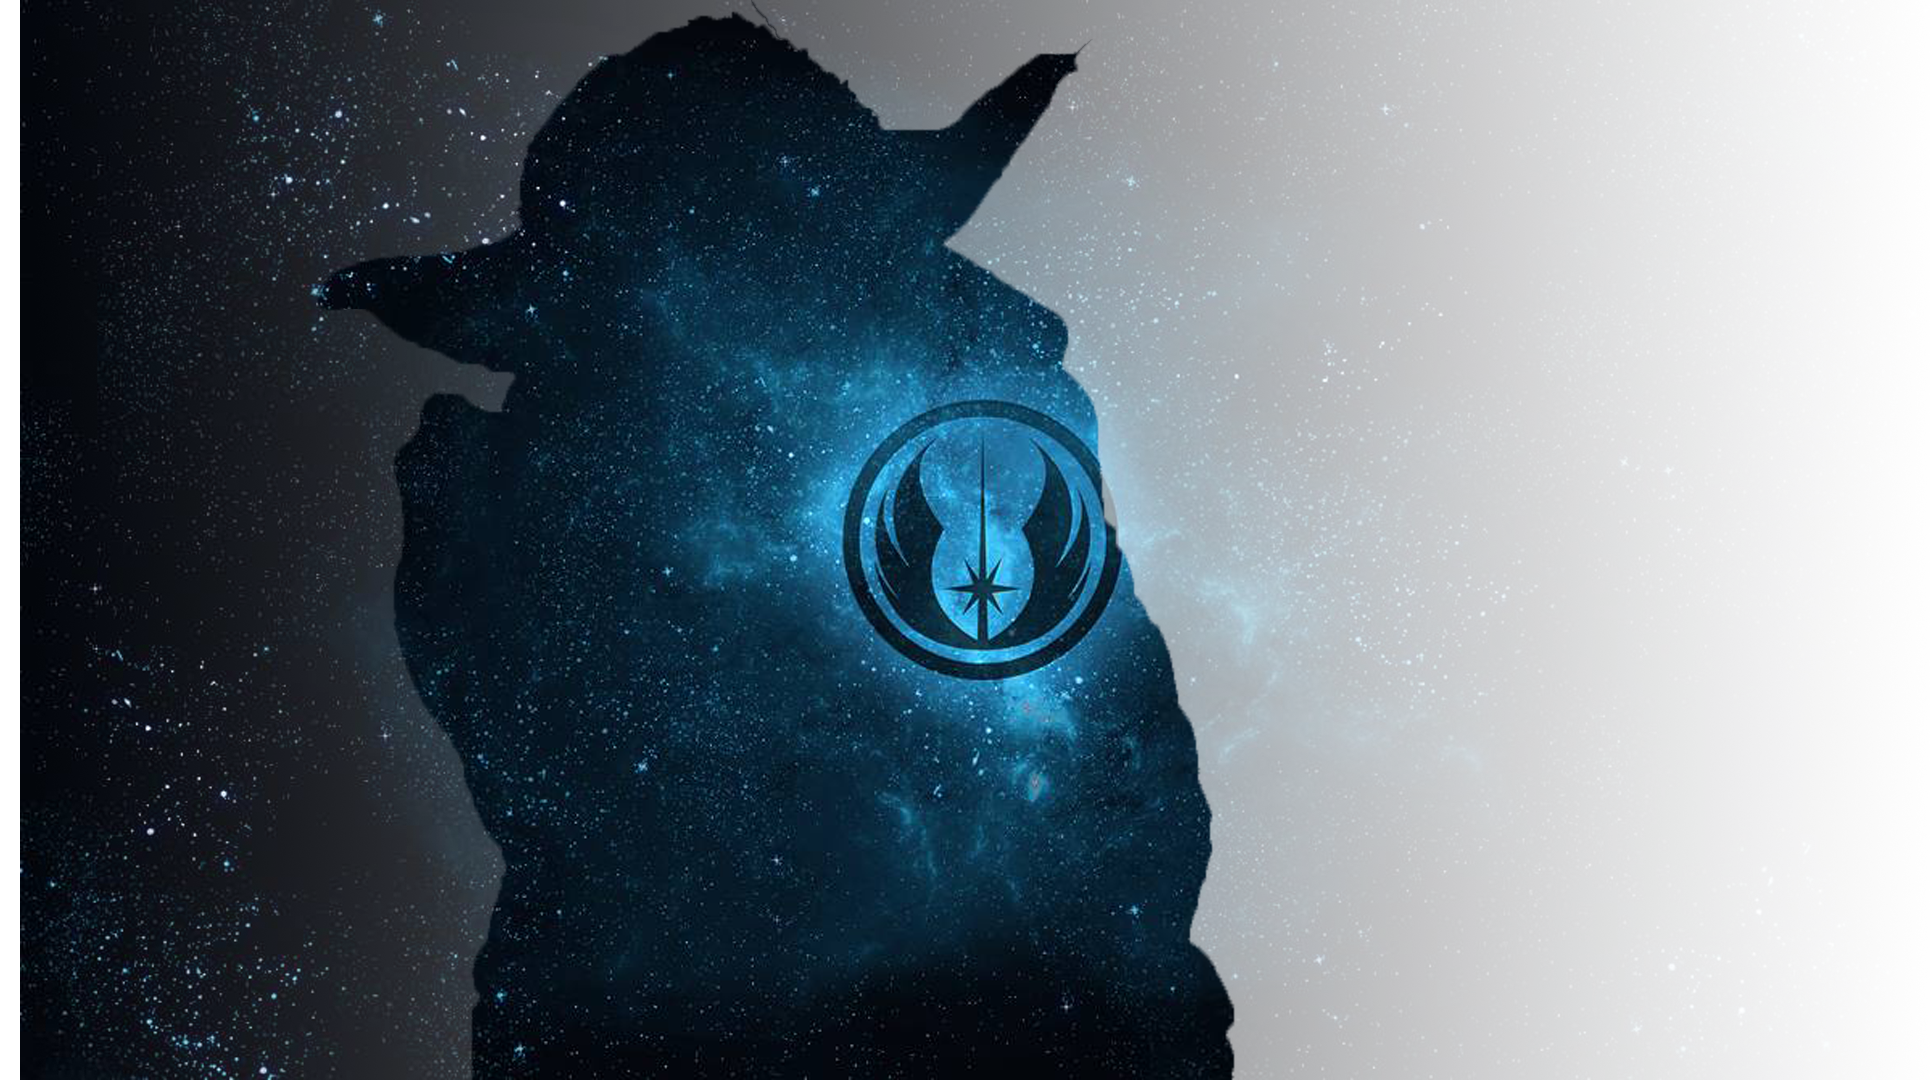
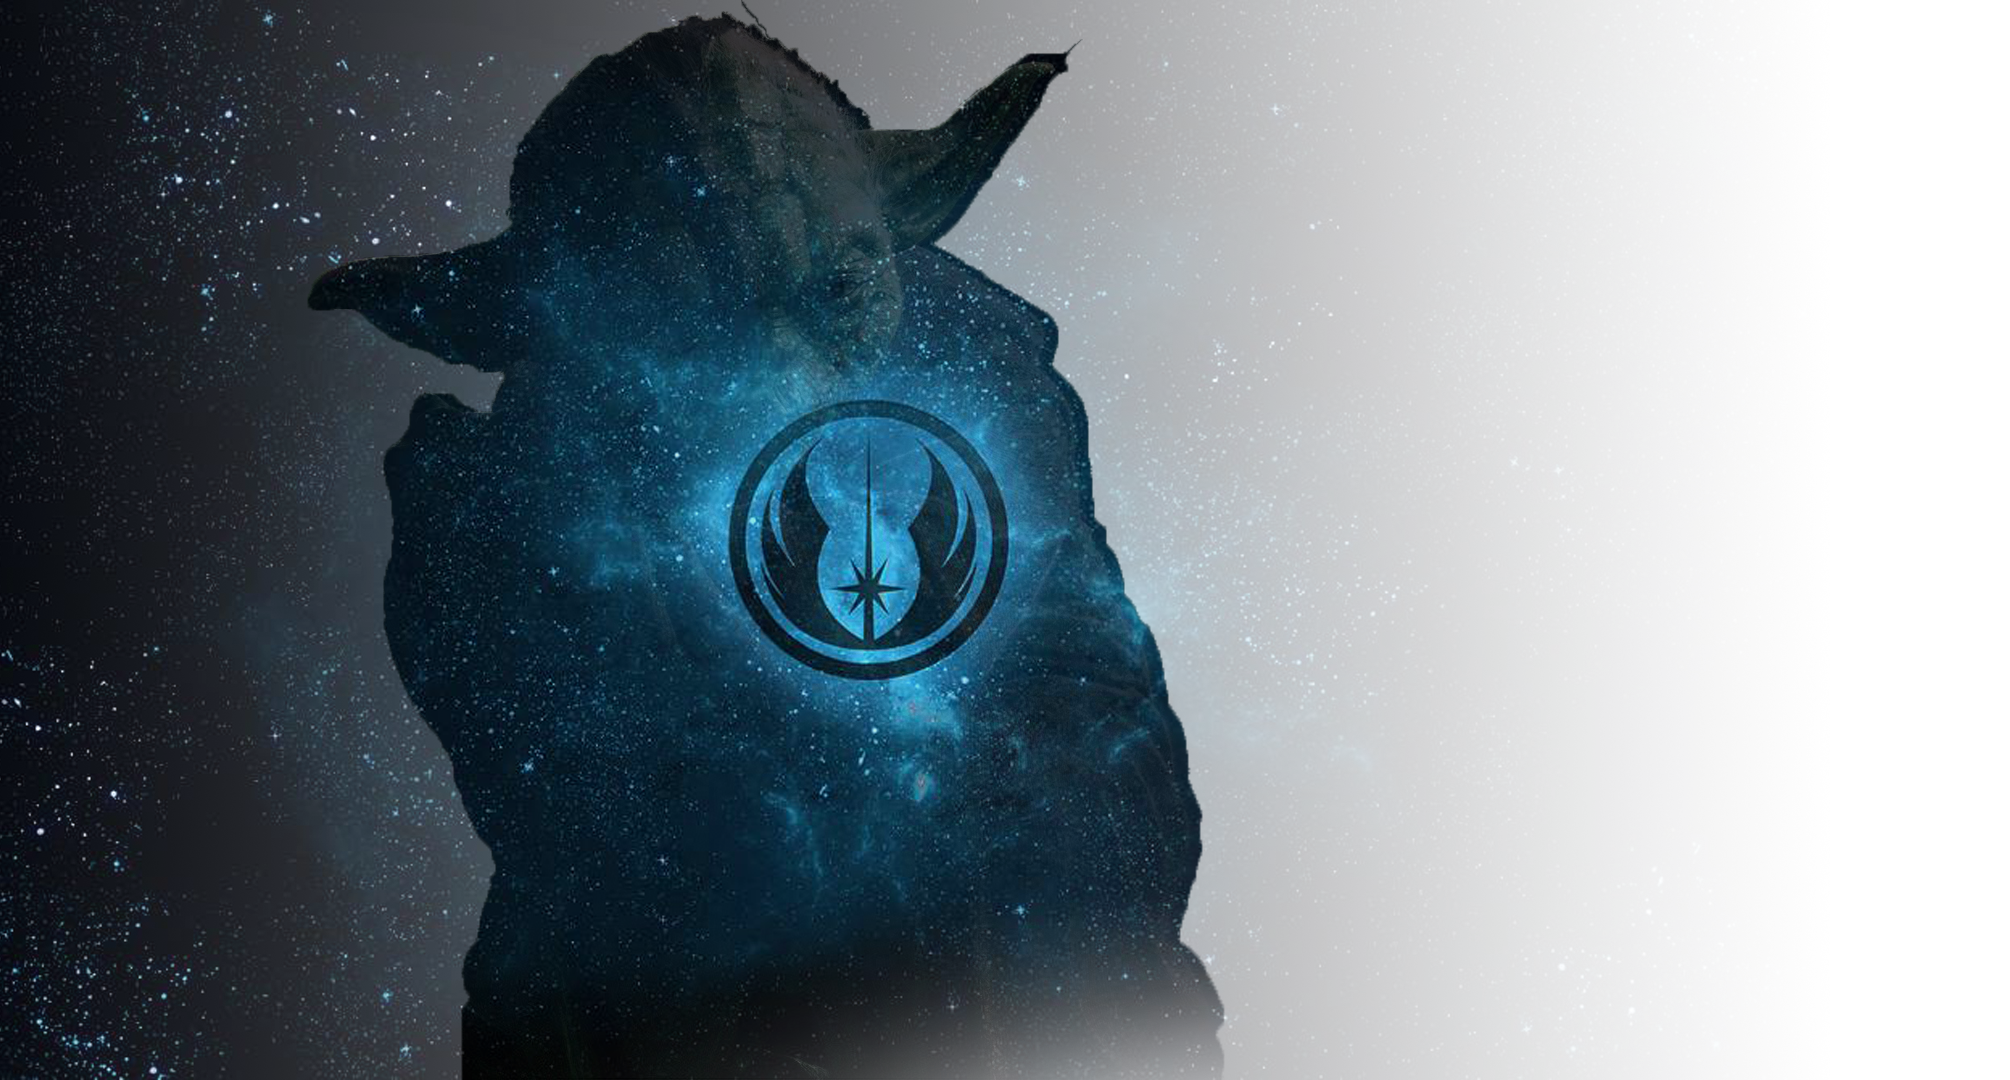
Updated background.
https://github.com/bernardbaker/star-wars-top-trumps/issues/3

diff --git a/src/App.scss b/src/App.scss
@@ -7,7 +7,7 @@ body {
 
   background-size: contain;
 
-  background-position-x: -450px;
+  background-position-x: -400px;
 
   background-repeat: no-repeat;
 
